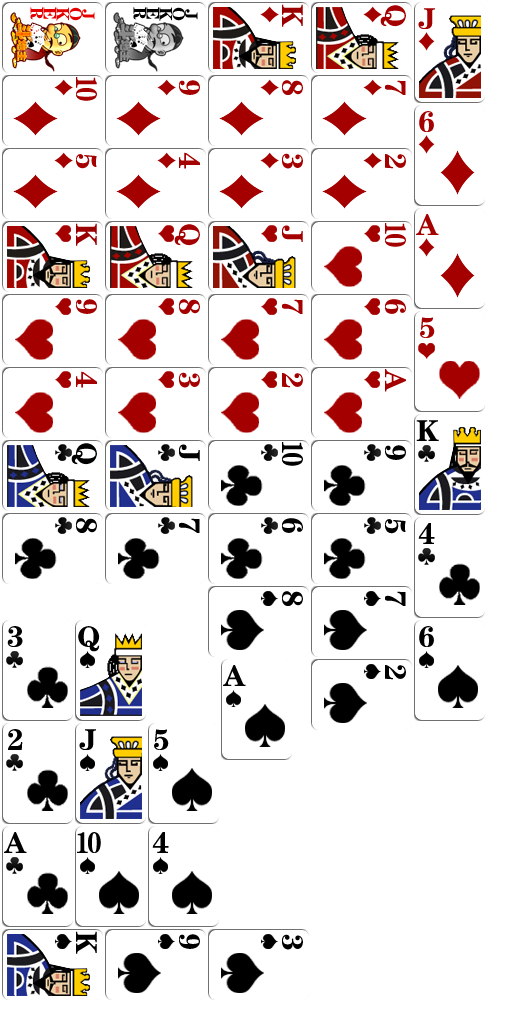
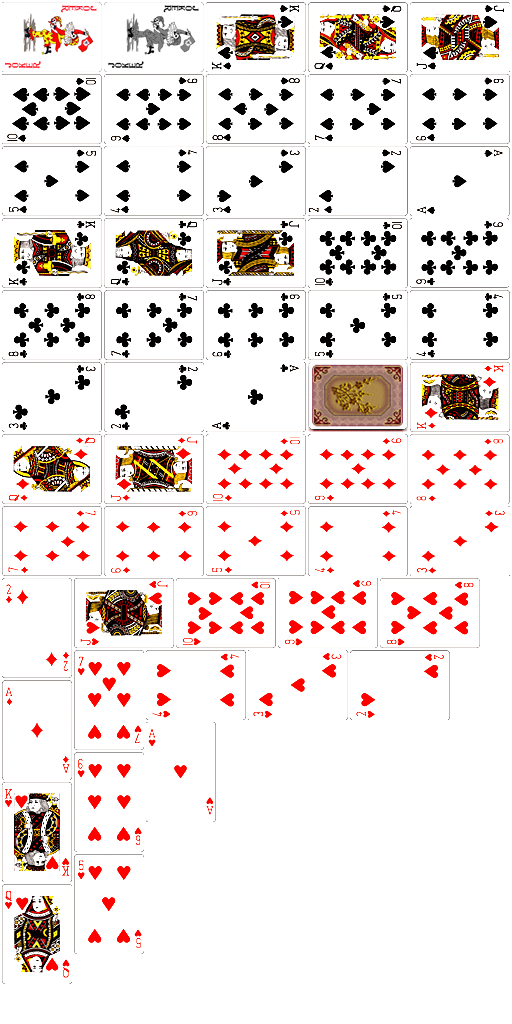
change card UI

diff --git a/Classes/AppDelegate.cpp b/Classes/AppDelegate.cpp
@@ -337,7 +337,7 @@ bool AppDelegate::applicationDidFinishLaunching()
     // pStack->loadChunksFromZIP("zipres/slogic.dat");
     
     // pStack->setXXTEAKeyAndSign("hahaleddz", 9, "hahale", 6);
-    pStack->loadChunksFromZIP("zipres/cui.zip");
+    // pStack->loadChunksFromZIP("zipres/cui.zip");
     pStack->executeString("require 'main'");
     
 #endif
